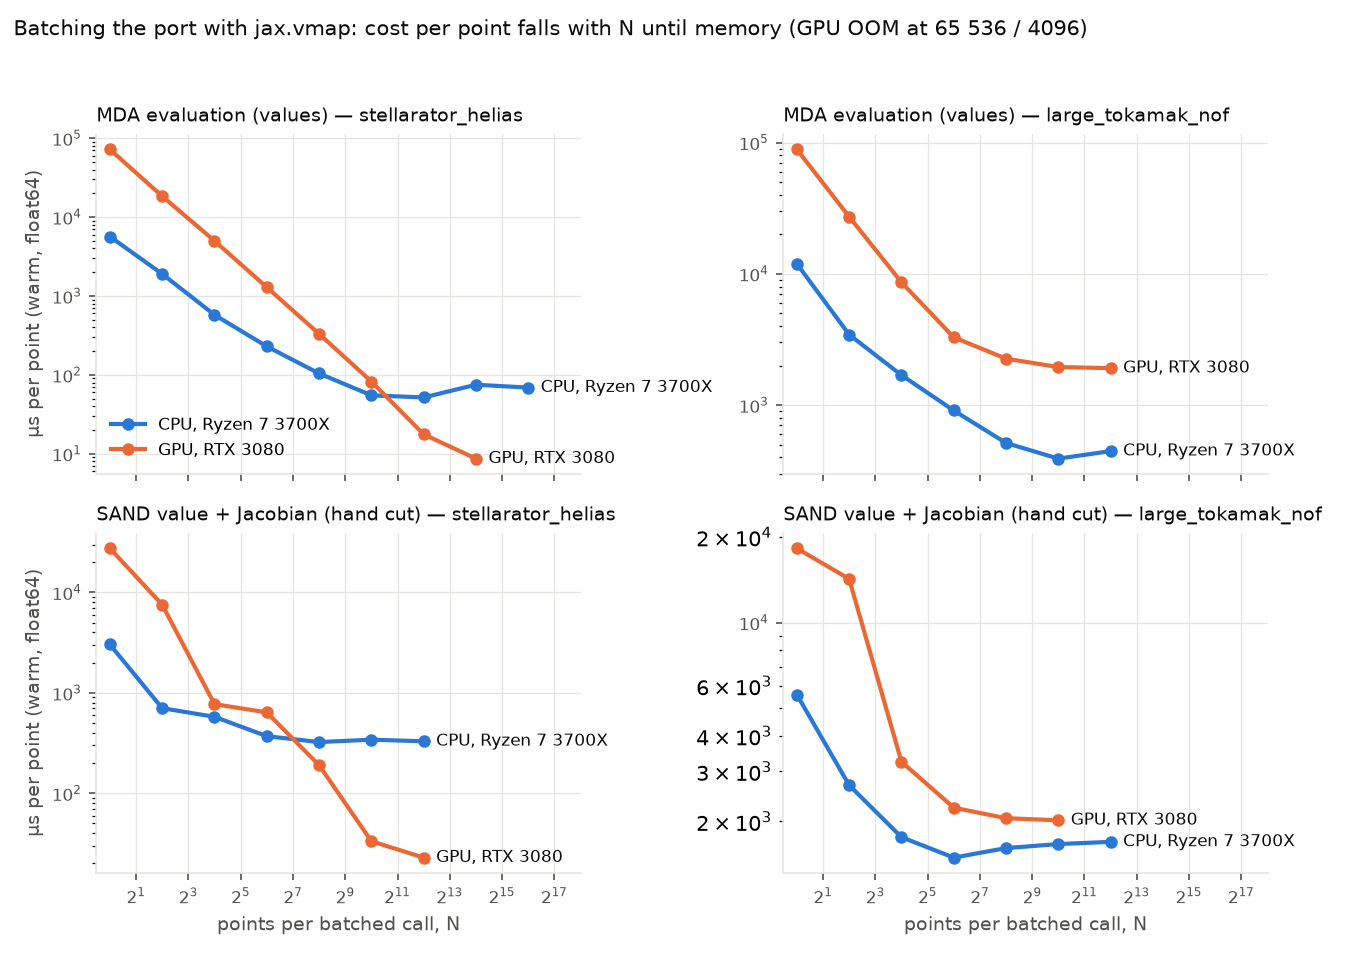
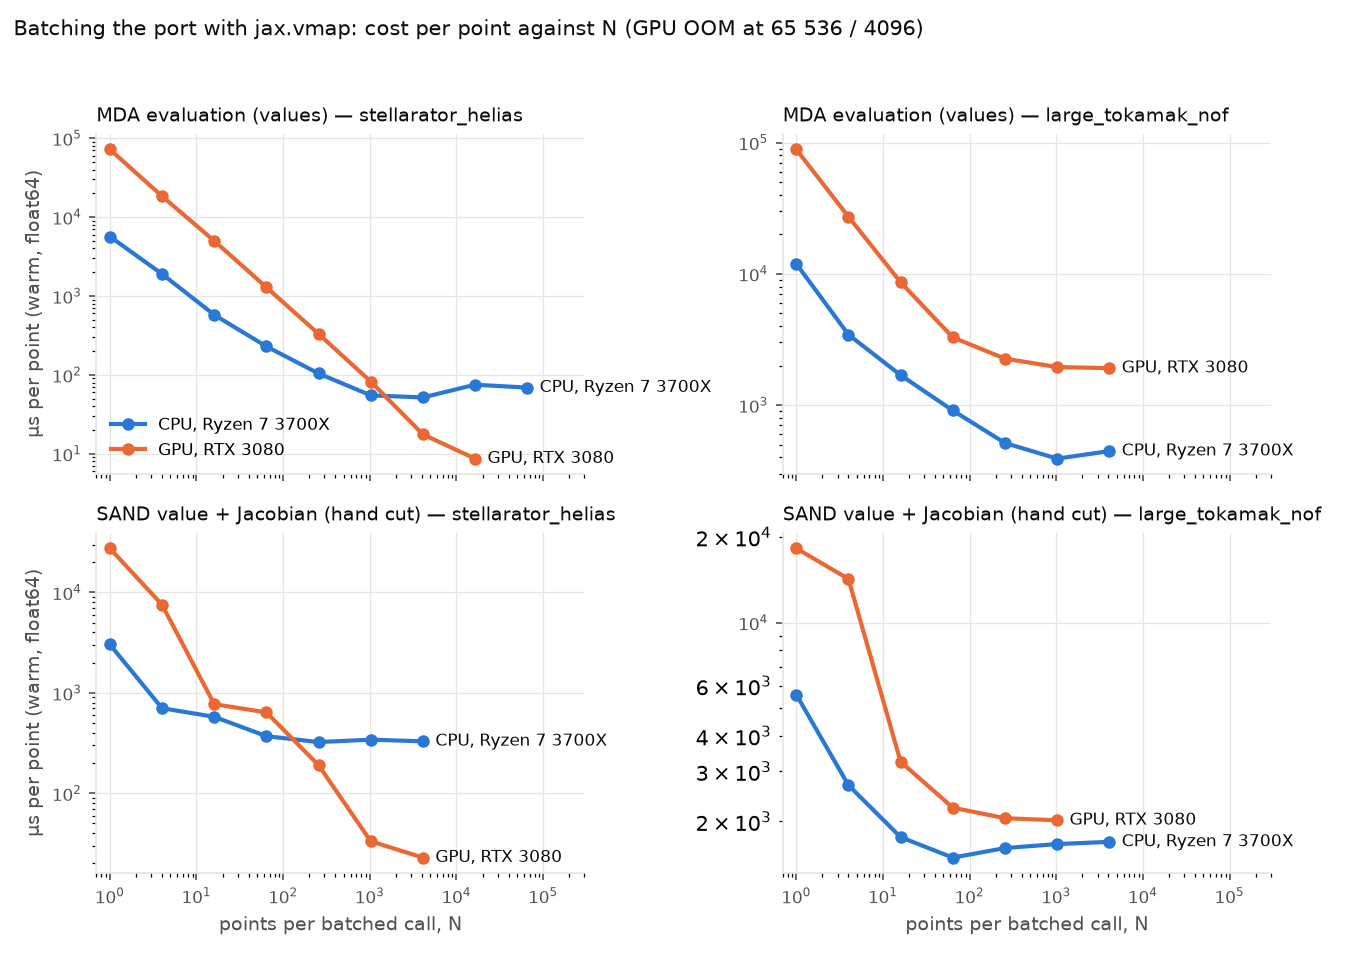
paper_tests: batching curves on base-10 axes with a total-wall companion; the closed architecture as a DSM page; the closed batch sweeps N on either backend

diff --git a/paper_tests/plot_batching.py b/paper_tests/plot_batching.py
@@ -23,38 +23,47 @@ INK, MUTED, RULE = "#0b0b0b", "#52514e", "#e6e5e2"
 rows = [r for r in csv.DictReader(open(OUT / "batching.csv"))
         if r["shape"] in ("mda", "sand") and r["precision"] == "f64" and r["status"] == "ok"
         and r["vmap"] == "True" and r["tag"] in ("", "None") and r.get("cut", "hand") in ("hand", "")]
-series: dict = defaultdict(dict)
+series: dict = defaultdict(dict)   # us per point
+walls: dict = defaultdict(dict)    # warm wall per batched call, s
 for r in rows:
     key = (r["shape"], r["configuration"], r["backend"])
     n = int(r["N"])
-    series[key][n] = min(float(r["us_per_point"]), series[key].get(n, 1e30))
+    if float(r["us_per_point"]) < series[key].get(n, 1e30):
+        series[key][n] = float(r["us_per_point"])
+        walls[key][n] = float(r["warm_wall"])
 
 panels = [("mda", "stellarator_helias"), ("mda", "large_tokamak_nof"),
           ("sand", "stellarator_helias"), ("sand", "large_tokamak_nof")]
 titles = {"mda": "MDA evaluation (values)", "sand": "SAND value + Jacobian (hand cut)"}
-fig, axes = plt.subplots(2, 2, figsize=(9, 6.4), sharex=True)
-for ax, (shape, cfg) in zip(axes.flat, panels):
-    for backend, colour, label in (("cpu", CPU, "CPU, Ryzen 7 3700X"), ("gpu", GPU, "GPU, RTX 3080")):
-        pts = sorted(series[(shape, cfg, backend)].items())
-        if not pts:
-            continue
-        xs, ys = zip(*pts)
-        ax.plot(xs, ys, color=colour, lw=2, marker="o", ms=5, label=label)
-        ax.annotate(label, (xs[-1], ys[-1]), xytext=(6, 0), textcoords="offset points",
-                    color=INK, fontsize=8, va="center")
-    ax.set_xscale("log", base=2); ax.set_yscale("log")
-    ax.set_title(f"{titles[shape]} — {cfg}", fontsize=9, color=INK, loc="left")
-    ax.grid(True, which="major", color=RULE, lw=0.6); ax.grid(False, which="minor")
-    for s in ("top", "right"): ax.spines[s].set_visible(False)
-    for s in ("left", "bottom"): ax.spines[s].set_color(RULE)
-    ax.tick_params(colors=MUTED, labelsize=8)
-    ax.set_xlim(0.7, 2 ** 18)
-for ax in axes[1]: ax.set_xlabel("points per batched call, N", color=MUTED, fontsize=9)
-for ax in axes[:, 0]: ax.set_ylabel("µs per point (warm, float64)", color=MUTED, fontsize=9)
-axes[0, 0].legend(frameon=False, fontsize=8, loc="lower left")
-fig.suptitle("Batching the port with jax.vmap: cost per point falls with N until memory (GPU OOM at 65 536 / 4096)",
-             fontsize=10, color=INK, x=0.01, ha="left")
-fig.tight_layout(rect=(0, 0, 0.98, 0.96))
-fig.savefig(OUT / "batching.png", dpi=150)
-fig.savefig(OUT / "batching.pdf")
-print(OUT / "batching.png")
+def draw(data, ylabel, title, name):
+    fig, axes = plt.subplots(2, 2, figsize=(9, 6.4), sharex=True)
+    for ax, (shape, cfg) in zip(axes.flat, panels):
+        for backend, colour, label in (("cpu", CPU, "CPU, Ryzen 7 3700X"), ("gpu", GPU, "GPU, RTX 3080")):
+            pts = sorted(data[(shape, cfg, backend)].items())
+            if not pts:
+                continue
+            xs, ys = zip(*pts)
+            ax.plot(xs, ys, color=colour, lw=2, marker="o", ms=5, label=label)
+            ax.annotate(label, (xs[-1], ys[-1]), xytext=(6, 0), textcoords="offset points",
+                        color=INK, fontsize=8, va="center")
+        ax.set_xscale("log"); ax.set_yscale("log")
+        ax.set_title(f"{titles[shape]} — {cfg}", fontsize=9, color=INK, loc="left")
+        ax.grid(True, which="major", color=RULE, lw=0.6); ax.grid(False, which="minor")
+        for sp in ("top", "right"): ax.spines[sp].set_visible(False)
+        for sp in ("left", "bottom"): ax.spines[sp].set_color(RULE)
+        ax.tick_params(colors=MUTED, labelsize=8)
+        ax.set_xlim(0.7, 3e5)
+    for ax in axes[1]: ax.set_xlabel("points per batched call, N", color=MUTED, fontsize=9)
+    for ax in axes[:, 0]: ax.set_ylabel(ylabel, color=MUTED, fontsize=9)
+    axes[0, 0].legend(frameon=False, fontsize=8, loc="lower left")
+    fig.suptitle(title, fontsize=10, color=INK, x=0.01, ha="left")
+    fig.tight_layout(rect=(0, 0, 0.98, 0.96))
+    fig.savefig(OUT / f"{name}.png", dpi=150)
+    fig.savefig(OUT / f"{name}.pdf")
+    print(OUT / f"{name}.png")
+
+
+draw(series, "µs per point (warm, float64)",
+     "Batching the port with jax.vmap: cost per point against N (GPU OOM at 65 536 / 4096)", "batching")
+draw(walls, "warm wall per batched call, s",
+     "The same calls, total wall: what one batched evaluation costs as N grows", "batching_wall")

diff --git a/paper_tests/close_conditions.py b/paper_tests/close_conditions.py
@@ -35,7 +35,8 @@ root finds nested inside it -- but the solve runs VMCON from outside the graph, 
     $PY paper_tests/close_conditions.py --solve            # ~5 min
     $PY paper_tests/close_conditions.py --solve --pair16 .physics.nd_plasma_electrons_vol_avg
     $PY paper_tests/close_conditions.py --solve --driver newton   # optimistix's undamped Newton
-    $PY paper_tests/close_conditions.py --batch            # ~3 min, N=1024 vmap on CPU
+    $PY paper_tests/close_conditions.py --batch [--sizes 1,64,1024]   # vmap sweep, CPU
+    JAX_PLATFORMS=cuda $G paper_tests/close_conditions.py --batch      # the same on the GPU
 
 Outputs: `out/close_conditions.csv` (the pairing table), `out/close_conditions.tex`
 (design-variable rows plus the ten smallest non-design cycles per equality),
@@ -649,8 +650,10 @@ def run_solve(pairings=None, suffix="", driver=safeguarded) -> list[dict]:
 # ---------------------------------------------------------------- the batch angle
 
 
-def batch_rows(sizes=(1, 1024), repeats=3) -> list[dict]:
-    """One MDA evaluation, plain and with the root finds inside: single and `vmap`."""
+def batch_rows(sizes=(1, 4, 16, 64, 256, 1024, 4096), repeats=3) -> list[dict]:
+    """One MDA evaluation, plain and with the root finds inside: single and `vmap`,
+    on whichever backend jax is on (`JAX_PLATFORMS`); rows say which."""
+    backend = jax.default_backend()
     live = open_live()
     built = closed(live)
     plain = build_mdf(live.reference, live.machine_graph, live.switch_values, cut=live.cut).problem
@@ -683,20 +686,20 @@ def batch_rows(sizes=(1, 1024), repeats=3) -> list[dict]:
                 walls.append(time.perf_counter() - began)
             eq = {c.spelling: np.asarray(out[c]) for c in built.pairings} if label == "closed" else {}
             rows.append({
-                "shape": label, "N": n, "vmap": n > 1, "first_call_s": first,
+                "shape": label, "backend": backend, "N": n, "vmap": n > 1, "first_call_s": first,
                 "warm_s": min(walls), "us_per_point": 1e6 * min(walls) / n,
                 "max_abs_eq": max(float(np.max(np.abs(v))) for v in eq.values()) if eq else None,
                 "newton_steps_max": max(int(np.max(np.asarray(out[Steps.name_for(p)]))) for p in built.places.values()) if label == "closed" else None,
                 "all_converged": bool(all(np.all(np.asarray(out[Converged.name_for(p)])) for p in built.places.values())) if label == "closed" else None,
             })
             print(rows[-1])
-    write_csv("close_conditions.py", rows, name="close_conditions_batch")
+    write_csv("close_conditions.py", rows, name=f"close_conditions_batch_{backend}")
     header = ["MDA", "N", "compile s", "warm s", r"$\mu$s/point", r"$\max|h|$", "max Newton steps"]
     body = [[r["shape"], r["N"], fmt(r["first_call_s"], 1), fmt(r["warm_s"], 4), fmt(r["us_per_point"], 1),
              sci(r["max_abs_eq"]) if r["max_abs_eq"] is not None else "--",
              r["newton_steps_max"] if r["newton_steps_max"] is not None else "--"] for r in rows]
-    write_tex("close_conditions.py", header, body, name="close_conditions_batch", align="lrrrrrr",
-              caption_note="CPU; N > 1 is jax.vmap over N design points, each design entry perturbed by +-1 %")
+    write_tex("close_conditions.py", header, body, name=f"close_conditions_batch_{backend}", align="lrrrrrr",
+              caption_note=f"{backend}; N > 1 is jax.vmap over N design points, each design entry perturbed by +-1 %")
     return rows
 
 
@@ -720,7 +723,8 @@ def main(argv=None) -> int:
             suffix += "" if name == "safeguarded" else f"_{name}"
         run_solve(pairings, suffix, driver)
     if "--batch" in argv:
-        batch_rows()
+        sizes = tuple(int(x) for x in argv[argv.index("--sizes") + 1].split(",")) if "--sizes" in argv else (1, 4, 16, 64, 256, 1024, 4096)
+        batch_rows(sizes)
     if not any(a in argv for a in ("--table", "--solve", "--batch")):
         print(__doc__)
     return 0

diff --git a/paper_tests/dsms.py b/paper_tests/dsms.py
@@ -14,6 +14,8 @@ ringed by the kind of problem it answers and labelled with its driver):
                         nested around everything it iterates (`mdf.nested_blocking`)
     sand_<cut>          SAND -- every problem residualised and combined into one,
                         as structure (no MDA is run; nothing is dropped)
+    closed              (stellarator_helias only) MDF with the two equalities closed as
+                        nested root finds -- `close_conditions.py`'s architecture
 
 for <cut> in hand, jacobi, gauss_seidel, gauss_seidel_minimal. A root-find file (the two
 `*_eval`) has an `uncut_optimiser` with its `RootFind` and an `mdf_<cut>` stated in the
@@ -134,10 +136,18 @@ def sand_blocking(live, recipe: str):
     return Blocking.scc(assign_drivers(combined, default_drivers(combined)))
 
 
+def closed_blocking():
+    """`close_conditions`' architecture on `stellarator_helias`: the two equalities
+    closed as nested root finds, the optimiser over the remaining six."""
+    import close_conditions  # noqa: PLC0415 -- beside this file
+
+    return close_conditions.nested_blocking(close_conditions.closed(close_conditions.open_live()))
+
+
 def main(argv=None) -> int:
     argv = sys.argv[1:] if argv is None else argv
     chosen = [argv[i + 1] for i, a in enumerate(argv) if a == "--input"] or list(CONFIGURATIONS)
-    only = set((argv[argv.index("--only") + 1] if "--only" in argv else "uncut,optimiser,mdf,sand").split(","))
+    only = set((argv[argv.index("--only") + 1] if "--only" in argv else "uncut,optimiser,mdf,sand,closed").split(","))
     top = OUT / "dsm"
     top.mkdir(exist_ok=True)
     top_links = []
@@ -161,6 +171,9 @@ def main(argv=None) -> int:
             if "sand" in only and not live.root_find:
                 jobs.append((f"sand_{recipe}", f"SAND, cut: {LABEL[recipe]}",
                              lambda r=recipe: sand_blocking(live, r)))
+        if name == "stellarator_helias" and "closed" in only:
+            jobs.append(("closed", "MDF with the two equalities closed inside (GS-minimal cut; "
+                         "c2 by hfact, c16 by f_nd_alpha)", lambda: closed_blocking()))
         for key, label, build in jobs:
             try:
                 blocking = build()
